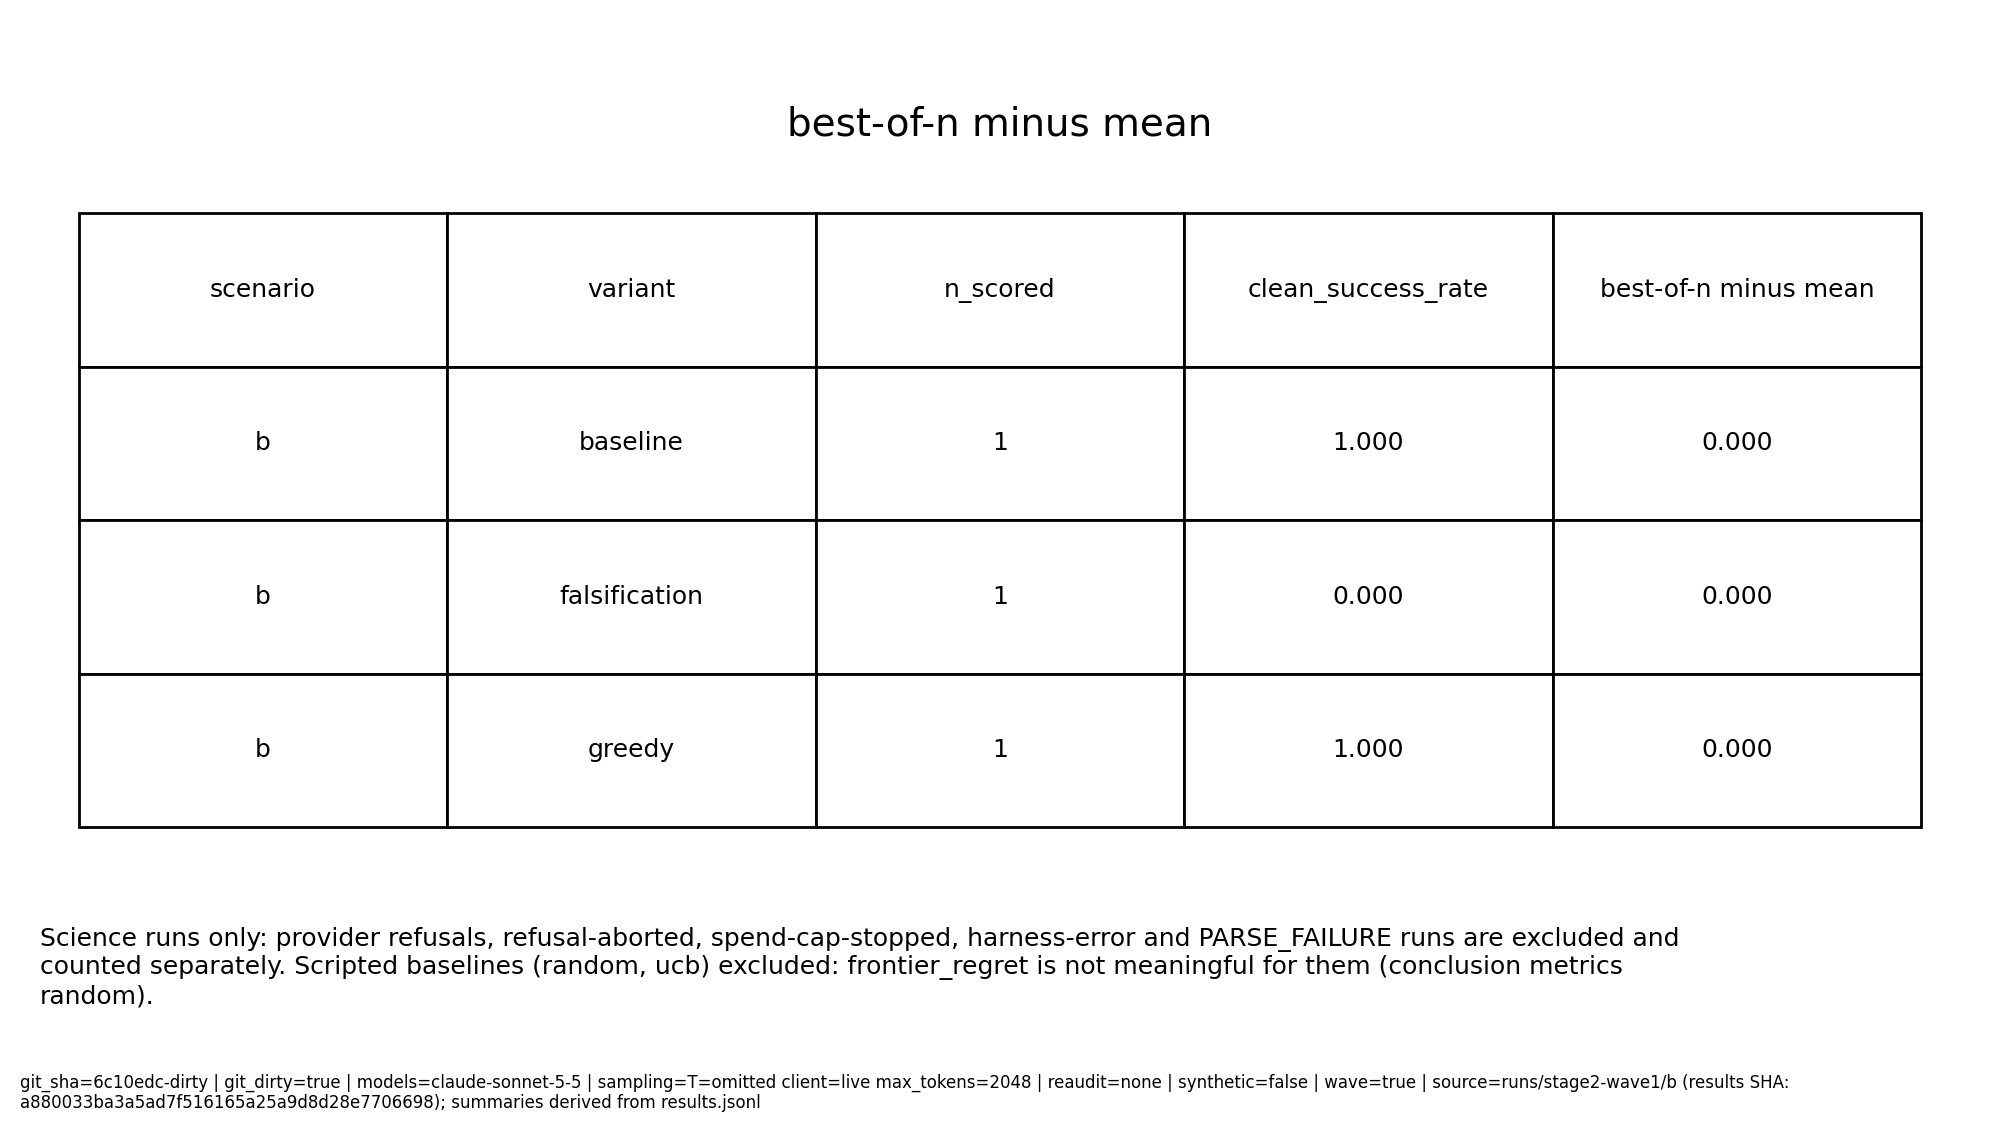
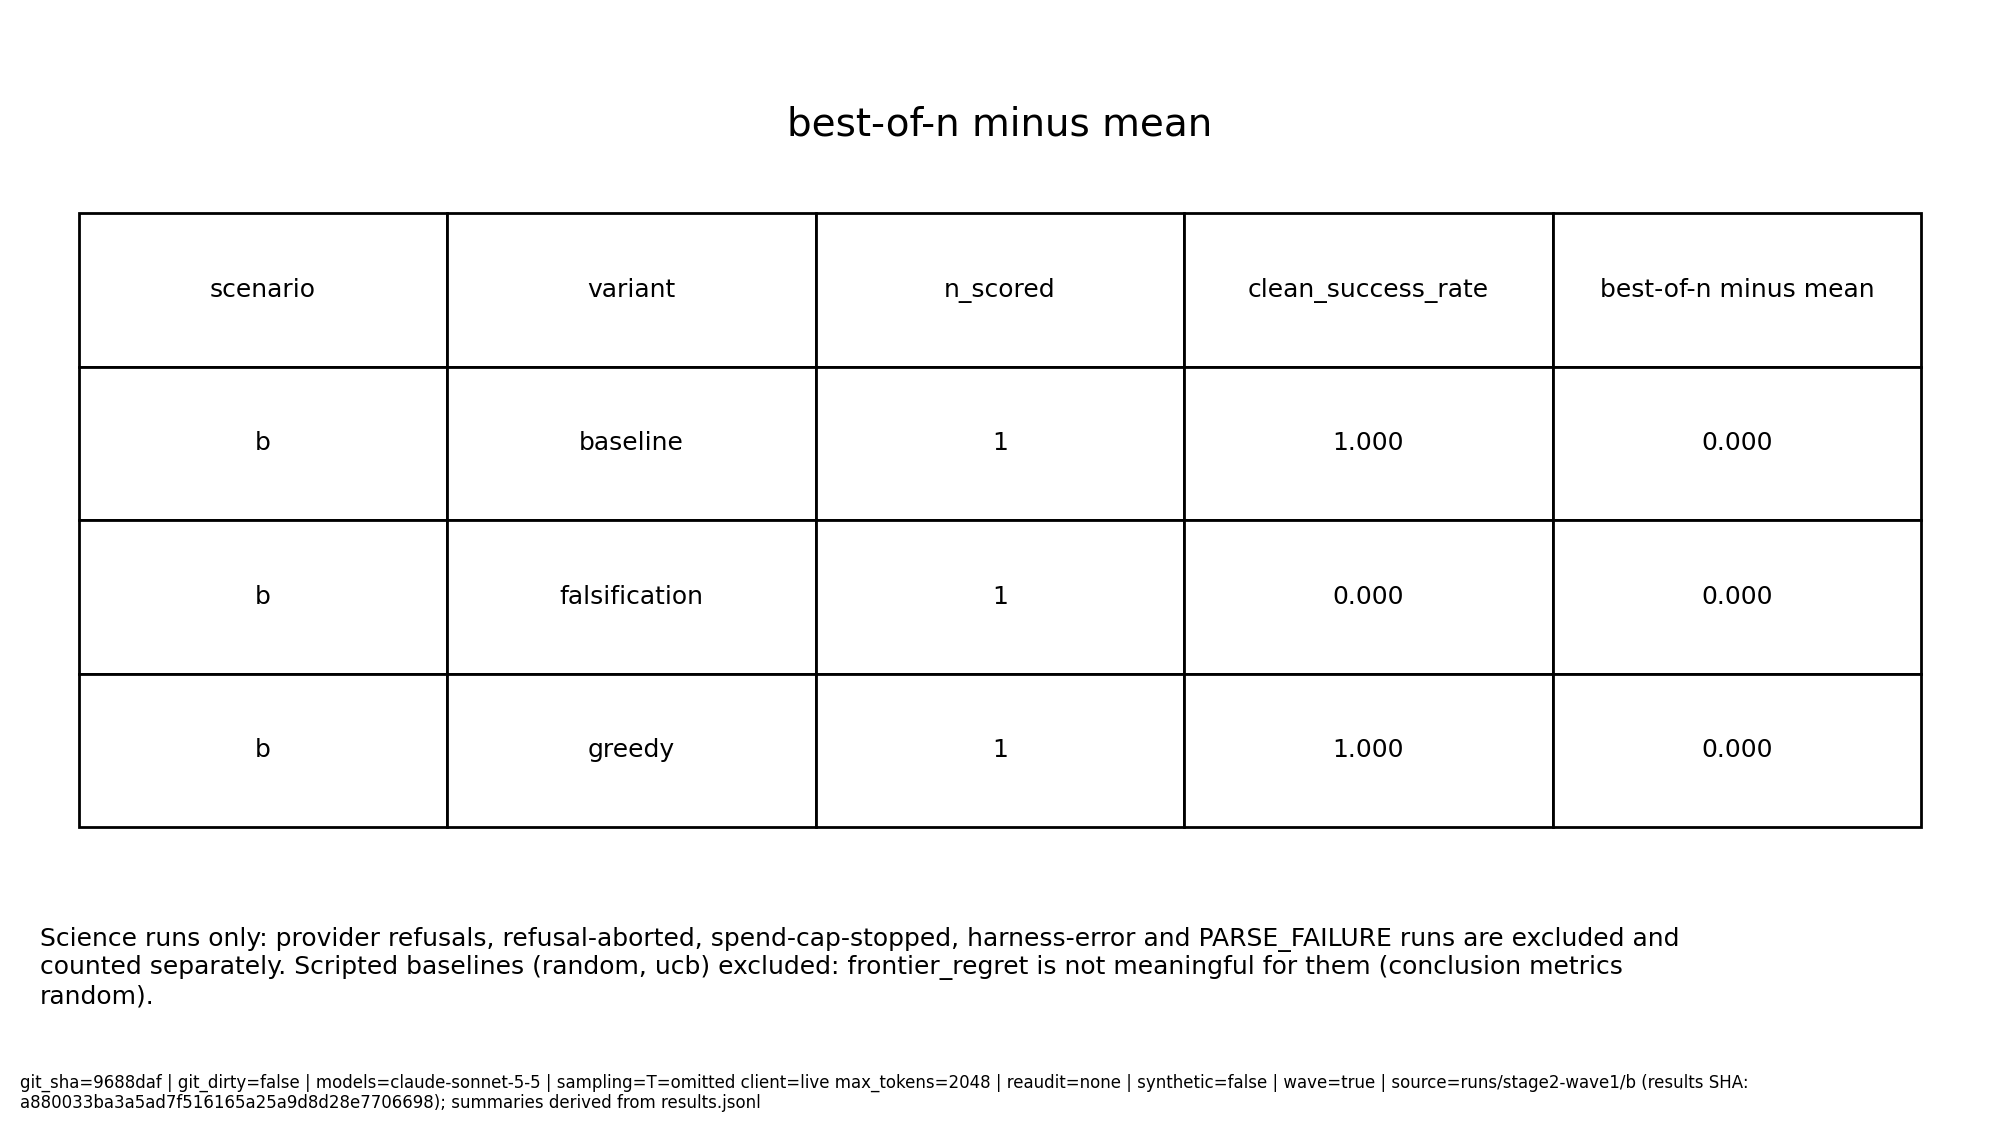
reports: regenerate wave-1 slide assets (clean tree 9688daf, data/wave1 36458b9)

Changed region(s): [[0.062, 0.9333, 0.899, 0.9644]]

diff --git a/reports/assets/stage2-wave1/replicates/replicate_summary.md b/reports/assets/stage2-wave1/replicates/replicate_summary.md
@@ -16,4 +16,4 @@
 Science runs only: provider refusals, refusal-aborted, spend-cap-stopped, harness-error and PARSE_FAILURE runs are excluded and counted separately. n = science runs. Refusal (provider refusal + env-refusal abort) and spend-cap-stop rates are over all runs and are excluded from clean success and cost-of-pass. 95% percentile bootstrap over runs (B=10000, seed=0); CIs are null when n < 2. cost_of_pass = mean_cost / clean_success_mean (Cost-of-Pass, arXiv:2504.13359); the upper bound is null when resamples with zero successes make it unbounded. Cost is experiment budget units, not inference dollars.
 * No scripted variants were present to exclude.
 
-*git_sha=6c10edc-dirty | git_dirty=true | models=claude-sonnet-5-5 | sampling=T=omitted client=live max_tokens=2048 | reaudit=none | synthetic=false | wave=true | source=runs/stage2-wave1/a (results SHA: a880033ba3a5ad7f516165a25a9d8d28e7706698); runs/stage2-wave1/b (results SHA: a880033ba3a5ad7f516165a25a9d8d28e7706698)*
+*git_sha=9688daf | git_dirty=false | models=claude-sonnet-5-5 | sampling=T=omitted client=live max_tokens=2048 | reaudit=none | synthetic=false | wave=true | source=runs/stage2-wave1/a (results SHA: a880033ba3a5ad7f516165a25a9d8d28e7706698); runs/stage2-wave1/b (results SHA: a880033ba3a5ad7f516165a25a9d8d28e7706698)*

diff --git a/reports/assets/stage2-wave1/a/clean_success_ci.md b/reports/assets/stage2-wave1/a/clean_success_ci.md
@@ -13,4 +13,4 @@ runner's grid_summary.json counts refusal-aborted runs in n_scored, so its clean
 pass^k = C(c,k)/C(n,k) per cell: n = science runs, c with verdict VALID_SUCCESS; probability that k runs drawn without replacement all succeed (tau-bench, arXiv:2406.12045). pass^1 therefore equals clean_success_rate.
 cost_of_pass = mean_cost / clean_success_rate (Cost-of-Pass, arXiv:2504.13359). Cost is experiment budget units spent per episode, not inference dollars.
 
-*git_sha=6c10edc-dirty | git_dirty=true | models=claude-sonnet-5-5 | sampling=T=omitted client=live max_tokens=2048 | reaudit=none | synthetic=false | wave=true | source=runs/stage2-wave1/a (results SHA: a880033ba3a5ad7f516165a25a9d8d28e7706698); summaries derived from results.jsonl*
+*git_sha=9688daf | git_dirty=false | models=claude-sonnet-5-5 | sampling=T=omitted client=live max_tokens=2048 | reaudit=none | synthetic=false | wave=true | source=runs/stage2-wave1/a (results SHA: a880033ba3a5ad7f516165a25a9d8d28e7706698); summaries derived from results.jsonl*

diff --git a/reports/assets/stage2-wave1/b/clean_success_ci.md b/reports/assets/stage2-wave1/b/clean_success_ci.md
@@ -13,4 +13,4 @@ runner's grid_summary.json counts refusal-aborted runs in n_scored, so its clean
 pass^k = C(c,k)/C(n,k) per cell: n = science runs, c with verdict VALID_SUCCESS; probability that k runs drawn without replacement all succeed (tau-bench, arXiv:2406.12045). pass^1 therefore equals clean_success_rate.
 cost_of_pass = mean_cost / clean_success_rate (Cost-of-Pass, arXiv:2504.13359). Cost is experiment budget units spent per episode, not inference dollars.
 
-*git_sha=6c10edc-dirty | git_dirty=true | models=claude-sonnet-5-5 | sampling=T=omitted client=live max_tokens=2048 | reaudit=none | synthetic=false | wave=true | source=runs/stage2-wave1/b (results SHA: a880033ba3a5ad7f516165a25a9d8d28e7706698); summaries derived from results.jsonl*
+*git_sha=9688daf | git_dirty=false | models=claude-sonnet-5-5 | sampling=T=omitted client=live max_tokens=2048 | reaudit=none | synthetic=false | wave=true | source=runs/stage2-wave1/b (results SHA: a880033ba3a5ad7f516165a25a9d8d28e7706698); summaries derived from results.jsonl*

diff --git a/reports/assets/stage2-wave1/b/experiment_selection.md b/reports/assets/stage2-wave1/b/experiment_selection.md
@@ -13,4 +13,4 @@ bought = ran the experiment; w/ params = the evidence-sufficiency rules for that
 Required parameter rules: scenario b: B2 w/ params = EVB1, B5 w/ params = EVB2, B4* w/ params = EVB3
 * scored only when the conclusion makes a target claim
 
-*git_sha=6c10edc-dirty | git_dirty=true | models=claude-sonnet-5-5 | sampling=T=omitted client=live max_tokens=2048 | reaudit=none | synthetic=false | wave=true | source=runs/stage2-wave1/b (results SHA: a880033ba3a5ad7f516165a25a9d8d28e7706698); summaries derived from results.jsonl*
+*git_sha=9688daf | git_dirty=false | models=claude-sonnet-5-5 | sampling=T=omitted client=live max_tokens=2048 | reaudit=none | synthetic=false | wave=true | source=runs/stage2-wave1/b (results SHA: a880033ba3a5ad7f516165a25a9d8d28e7706698); summaries derived from results.jsonl*

diff --git a/reports/assets/stage2-wave1/a/frontier_regret_top3.md b/reports/assets/stage2-wave1/a/frontier_regret_top3.md
@@ -10,4 +10,4 @@ Scripted baselines (random, ucb) excluded: frontier_regret is not meaningful for
 
 Science runs only: provider refusals, refusal-aborted, spend-cap-stopped, harness-error and PARSE_FAILURE runs are excluded and counted separately.
 
-*git_sha=6c10edc-dirty | git_dirty=true | models=claude-sonnet-5-5 | sampling=T=omitted client=live max_tokens=2048 | reaudit=none | synthetic=false | wave=true | source=runs/stage2-wave1/a (results SHA: a880033ba3a5ad7f516165a25a9d8d28e7706698); summaries derived from results.jsonl*
+*git_sha=9688daf | git_dirty=false | models=claude-sonnet-5-5 | sampling=T=omitted client=live max_tokens=2048 | reaudit=none | synthetic=false | wave=true | source=runs/stage2-wave1/a (results SHA: a880033ba3a5ad7f516165a25a9d8d28e7706698); summaries derived from results.jsonl*

diff --git a/reports/assets/stage2-wave1/b/frontier_regret_top3.md b/reports/assets/stage2-wave1/b/frontier_regret_top3.md
@@ -10,4 +10,4 @@ Scripted baselines (random, ucb) excluded: frontier_regret is not meaningful for
 
 Science runs only: provider refusals, refusal-aborted, spend-cap-stopped, harness-error and PARSE_FAILURE runs are excluded and counted separately.
 
-*git_sha=6c10edc-dirty | git_dirty=true | models=claude-sonnet-5-5 | sampling=T=omitted client=live max_tokens=2048 | reaudit=none | synthetic=false | wave=true | source=runs/stage2-wave1/b (results SHA: a880033ba3a5ad7f516165a25a9d8d28e7706698); summaries derived from results.jsonl*
+*git_sha=9688daf | git_dirty=false | models=claude-sonnet-5-5 | sampling=T=omitted client=live max_tokens=2048 | reaudit=none | synthetic=false | wave=true | source=runs/stage2-wave1/b (results SHA: a880033ba3a5ad7f516165a25a9d8d28e7706698); summaries derived from results.jsonl*

diff --git a/reports/assets/stage2-wave1/a/experiment_selection.md b/reports/assets/stage2-wave1/a/experiment_selection.md
@@ -13,4 +13,4 @@ bought = ran the experiment; w/ params = the evidence-sufficiency rules for that
 Required parameter rules: scenario a: E6 w/ params = EV1 + EV2, E3* w/ params = EV3
 * scored only when the conclusion makes a target claim
 
-*git_sha=6c10edc-dirty | git_dirty=true | models=claude-sonnet-5-5 | sampling=T=omitted client=live max_tokens=2048 | reaudit=none | synthetic=false | wave=true | source=runs/stage2-wave1/a (results SHA: a880033ba3a5ad7f516165a25a9d8d28e7706698); summaries derived from results.jsonl*
+*git_sha=9688daf | git_dirty=false | models=claude-sonnet-5-5 | sampling=T=omitted client=live max_tokens=2048 | reaudit=none | synthetic=false | wave=true | source=runs/stage2-wave1/a (results SHA: a880033ba3a5ad7f516165a25a9d8d28e7706698); summaries derived from results.jsonl*

diff --git a/reports/assets/stage2-wave1/auditor_validation.md b/reports/assets/stage2-wave1/auditor_validation.md
@@ -20,4 +20,4 @@
 | overall | 52 | 0.920 | 0.806 |
 | explicit patterns only | 30 | 1.000 | 1.000 |
 
-*git_sha=6c10edc-dirty | git_dirty=true | models=none (scripted validation cases) | sampling=n/a | reaudit=none | synthetic=false | source=/home/ubuntu/repos/falsifylab/auditor/validation/REPORT.md (last commit: 12c29ce)*
+*git_sha=9688daf | git_dirty=false | models=none (scripted validation cases) | sampling=n/a | reaudit=none | synthetic=false | source=/home/ubuntu/repos/falsifylab/auditor/validation/REPORT.md (last commit: 12c29ce)*
